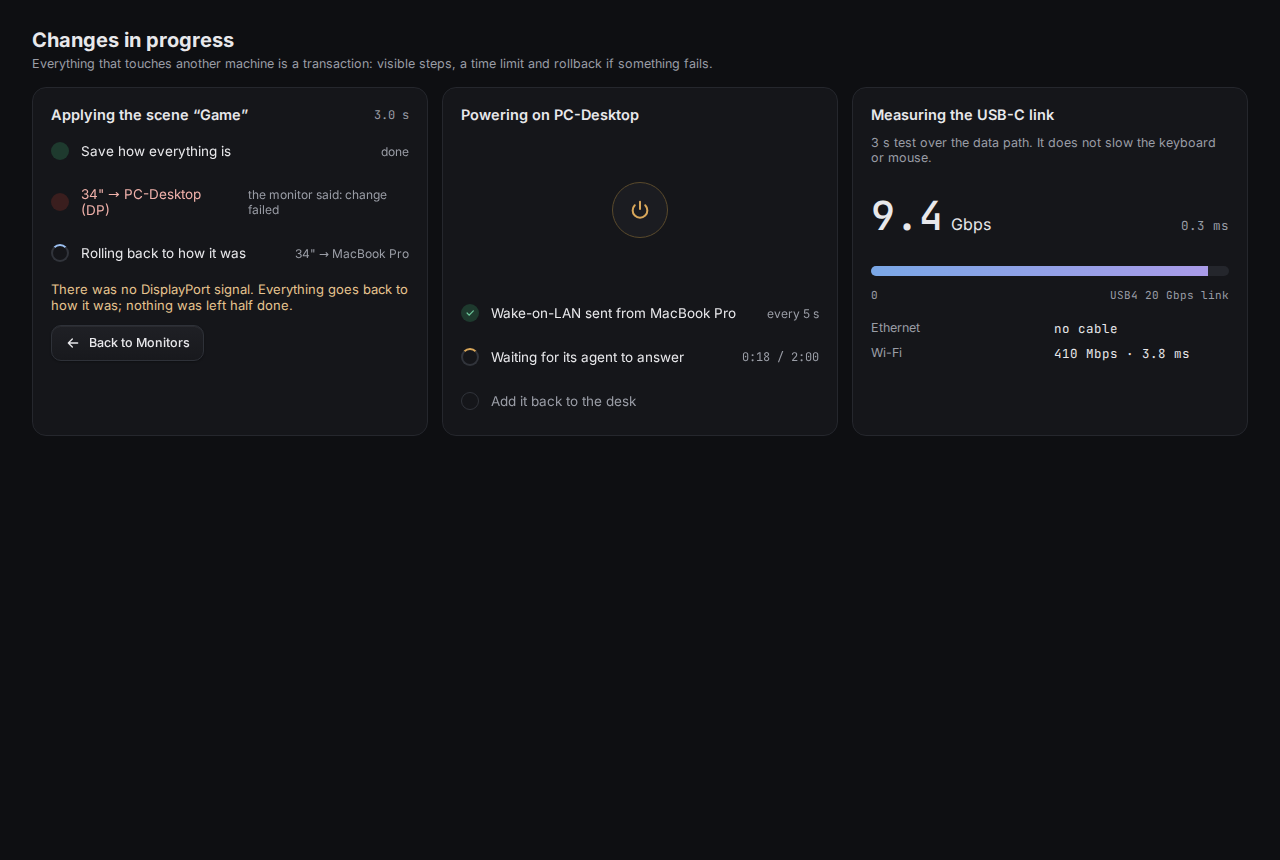
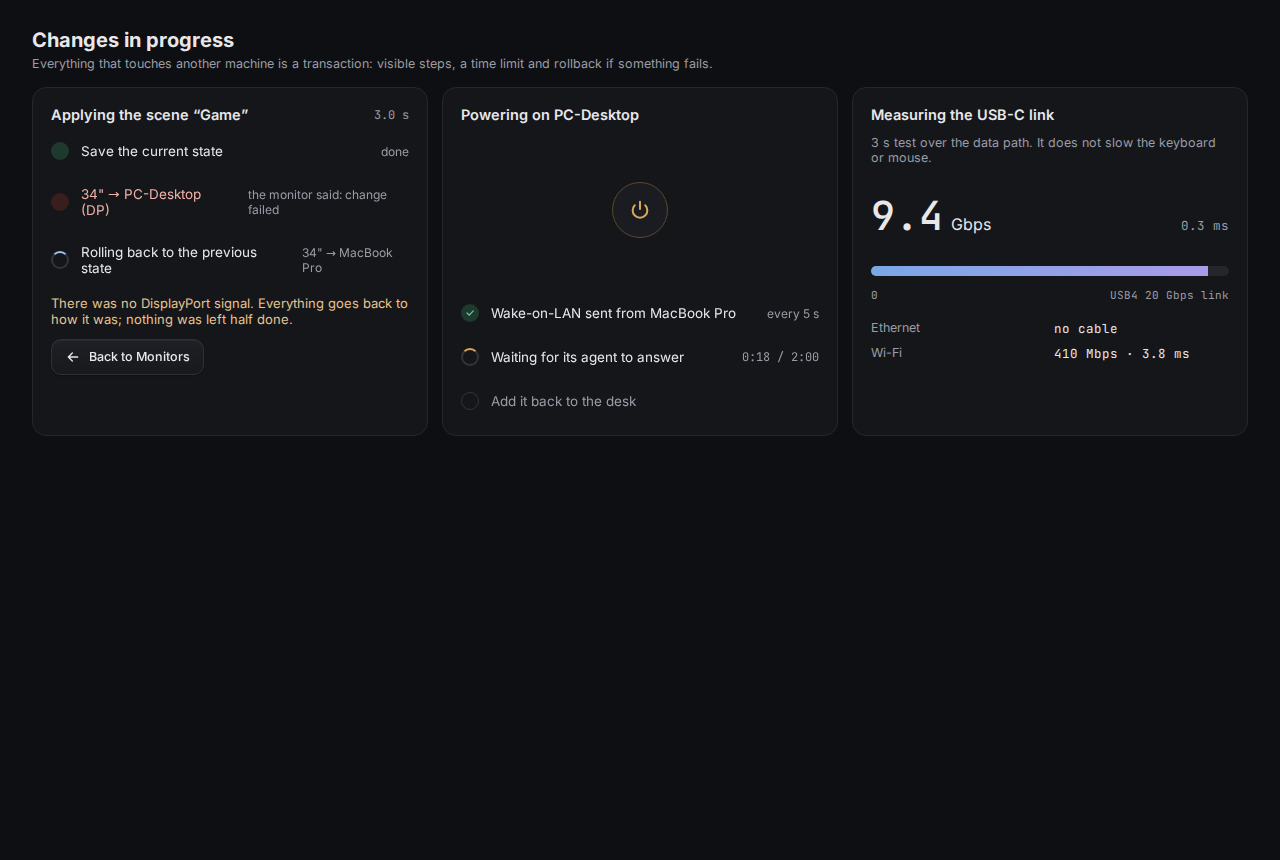
T-221: fix mistranslated UI strings (#162)
Fix UI strings that were mistranslated during the English migration.

Changed region(s): [[0.0312, 0.2721, 0.3125, 0.4233], [0.2188, 0.2721, 0.3125, 0.3023], [0.0938, 0.1512, 0.1875, 0.1814]]

diff --git a/mockups/v03/V3-Network.dc.html b/mockups/v03/V3-Network.dc.html
@@ -133,16 +133,16 @@ body{margin:0;background:#0e0f12}
 
     <section style="display:grid;grid-template-columns:repeat(3,minmax(0,1fr));gap:12px">
       <article class="card pc" style="animation-delay:.18s;border-color:#2c4a3c">
-        <div style="display:flex;align-items:center;gap:10px"><span class="pi" style="background:#16202e"><svg viewBox="0 0 24 24" fill="#7aa7e6" aria-hidden="true"><path d="M13 2 4 14h7l-1 8 9-12h-7z"></path></svg></span><div style="display:flex;flex-direction:column;gap:2px;min-width:0"><b style="font-weight:600">USB-C cable</b><span class="mono mut" style="font-size:11px">USB4 · 20 Gbps</span></div><span style="flex:1"></span><span class="st on"><span class="d"></span>Main</span></div>
-        <div class="met"><span class="mut">Latency</span><div class="bar"><span style="width:8%;background:#6cc59a"></span></div><span class="mono" style="text-align:right">0.3 ms</span><span class="mut">Band</span><div class="bar"><span style="width:94%;background:#7aa7e6"></span></div><span class="mono" style="text-align:right">9.4 Gbps</span></div>
+        <div style="display:flex;align-items:center;gap:10px"><span class="pi" style="background:#16202e"><svg viewBox="0 0 24 24" fill="#7aa7e6" aria-hidden="true"><path d="M13 2 4 14h7l-1 8 9-12h-7z"></path></svg></span><div style="display:flex;flex-direction:column;gap:2px;min-width:0"><b style="font-weight:600">USB-C cable</b><span class="mono mut" style="font-size:11px">USB4 · 20 Gbps</span></div><span style="flex:1"></span><span class="st on"><span class="d"></span>Primary</span></div>
+        <div class="met"><span class="mut">Latency</span><div class="bar"><span style="width:8%;background:#6cc59a"></span></div><span class="mono" style="text-align:right">0.3 ms</span><span class="mut">Bandwidth</span><div class="bar"><span style="width:94%;background:#7aa7e6"></span></div><span class="mono" style="text-align:right">9.4 Gbps</span></div>
       </article>
       <article class="card pc" style="animation-delay:.22s;border-style:dashed">
         <div style="display:flex;align-items:center;gap:10px"><span class="pi" style="background:#1b1c21"><svg viewBox="0 0 24 24" fill="#80838d" aria-hidden="true"><path d="M5 4h14v10h-3v3h-2v3h-4v-3H8v-3H5z"></path></svg></span><div style="display:flex;flex-direction:column;gap:2px;min-width:0"><b style="font-weight:600">Ethernet</b><span class="mono mut" style="font-size:11px">2.5 GbE</span></div><span style="flex:1"></span><span class="st off"><span class="d"></span>No cable</span></div>
-        <div class="met" style="opacity:.45"><span class="mut">Latency</span><div class="bar"></div><span class="mono" style="text-align:right">—</span><span class="mut">Band</span><div class="bar"></div><span class="mono" style="text-align:right">—</span></div>
+        <div class="met" style="opacity:.45"><span class="mut">Latency</span><div class="bar"></div><span class="mono" style="text-align:right">—</span><span class="mut">Bandwidth</span><div class="bar"></div><span class="mono" style="text-align:right">—</span></div>
       </article>
       <article class="card pc" style="animation-delay:.26s">
         <div style="display:flex;align-items:center;gap:10px"><span class="pi" style="background:#1a1712"><svg viewBox="0 0 24 24" fill="none" stroke="#d9a75a" stroke-width="2" stroke-linecap="round" aria-hidden="true"><path d="M2.5 9a14 14 0 0 1 19 0M5.5 12.5a9 9 0 0 1 13 0M9 16a4 4 0 0 1 6 0"></path><path d="M12 19.5h.01"></path></svg></span><div style="display:flex;flex-direction:column;gap:2px;min-width:0"><b style="font-weight:600">Wi-Fi</b><span class="mono mut" style="font-size:11px">Wi-Fi 7 · home</span></div><span style="flex:1"></span><span class="st bk"><span class="d"></span>Backup</span></div>
-        <div class="met"><span class="mut">Latency</span><div class="bar"><span style="width:40%;background:#d9a75a"></span></div><span class="mono" style="text-align:right">3.8 ms</span><span class="mut">Band</span><div class="bar"><span style="width:12%;background:#d9a75a"></span></div><span class="mono" style="text-align:right">410 Mbps</span></div>
+        <div class="met"><span class="mut">Latency</span><div class="bar"><span style="width:40%;background:#d9a75a"></span></div><span class="mono" style="text-align:right">3.8 ms</span><span class="mut">Bandwidth</span><div class="bar"><span style="width:12%;background:#d9a75a"></span></div><span class="mono" style="text-align:right">410 Mbps</span></div>
       </article>
     </section>
   </main>

diff --git a/apps/tandem-ui/src/screens/arrangement.test.ts b/apps/tandem-ui/src/screens/arrangement.test.ts
@@ -105,7 +105,7 @@ describe("Crossing test (F-CrossingTest)", () => {
     const src = new DemoSource(demoOptions("demo&still"));
     await open(src, "#/arrangement/crossing");
     src.cross({ from: "a", to: "b", edge: "right", at: 0, of: 0, ms: null });
-    expect(await screen.findByText("Crossed fine")).toBeInTheDocument();
+    expect(await screen.findByText("Crossed correctly")).toBeInTheDocument();
     expect(screen.getByText(/It entered PC-Desktop\./)).toBeInTheDocument();
     expect(screen.queryByText(/Latency/)).toBeNull();
   });
@@ -116,7 +116,7 @@ describe("Crossing test (F-CrossingTest)", () => {
     expect(screen.getByText("Move the mouse to the right of the MacBook")).toBeInTheDocument();
     expect(screen.getByText("waiting for the cursor")).toBeInTheDocument();
     src.cross({ from: "a", to: "b", edge: "right", at: 612, of: 1440, ms: 0.4 });
-    expect(await screen.findByText("Crossed fine")).toBeInTheDocument();
+    expect(await screen.findByText("Crossed correctly")).toBeInTheDocument();
     expect(screen.getByText(/It entered PC-Desktop at the right height \(y = 612 of 1440\)\. Crossing latency: 0\.4 ms\./)).toBeInTheDocument();
     expect(screen.getByText("the cursor arrived here")).toBeInTheDocument();
     await userEvent.click(screen.getByRole("button", { name: /Test again/ }));
@@ -295,7 +295,7 @@ describe("with the real agent", () => {
     expect(store.desk.layout.arrangement.aSide).toBe("right");
   });
 
-  it("the crossing test uses the crossing the agent reports: enabled button and \"Crossed fine\" through the right edge", async () => {
+  it("the crossing test uses the crossing the agent reports: enabled button and \"Crossed correctly\" through the right edge", async () => {
     let notice: ((n: Notice) => void) | undefined;
     const act = vi.fn(async (_a: Action) => ({ kind: "done" as const }));
     const withNotice = (): Bridge => {
@@ -317,6 +317,6 @@ describe("with the real agent", () => {
     // The arrangement says "A to the right of": the Mac leaves through its left edge.
     notice?.({ kind: "crossed", from: "a", to: "b", edge: "left" });
     notice?.({ kind: "cursor", sample: { machine: "b", screen: "Odyssey", x: 3439, y: 700 } });
-    expect(await screen.findByText("Crossed fine")).toBeInTheDocument();
+    expect(await screen.findByText("Crossed correctly")).toBeInTheDocument();
   });
 });

diff --git a/apps/tandem-ui/src/screens/network.test.ts b/apps/tandem-ui/src/screens/network.test.ts
@@ -55,7 +55,7 @@ describe("Network (V3-Network) in demo mode", () => {
     expect(screen.getByText("Keyboard and mouse")).toBeInTheDocument();
     expect(screen.getByText("0.4 ms")).toBeInTheDocument();
     expect(screen.getByText("p99 1.9 ms")).toBeInTheDocument();
-    const bw = screen.getByText("Bandwidth").closest<HTMLElement>(".card")!;
+    const bw = screen.getAllByText("Bandwidth").find((e) => e.classList.contains("lbl"))!.closest<HTMLElement>(".card")!;
     expect(within(bw).getByText("9.4 Gbps")).toBeInTheDocument();
     expect(within(bw).getByText("over USB-C")).toBeInTheDocument();
     expect(screen.getByText("Latency · 60 s")).toBeInTheDocument();
@@ -71,7 +71,7 @@ describe("Network (V3-Network) in demo mode", () => {
     expect(within(usb!).getByText("USB-C cable")).toBeInTheDocument();
     expect(within(usb!).getByText("USB4 · 20 Gbps")).toBeInTheDocument();
     expect(usb!.querySelector(".st")).toHaveClass("primary");
-    expect(within(usb!).getByText("Main")).toBeInTheDocument();
+    expect(within(usb!).getByText("Primary")).toBeInTheDocument();
     expect(within(usb!).getByText("0.3 ms")).toBeInTheDocument();
     expect(within(usb!).getByText("9.4 Gbps")).toBeInTheDocument();
     expect(within(usb!).getByRole("meter", { name: "USB-C bandwidth" })).toHaveAttribute("aria-valuenow", "94");
@@ -221,10 +221,10 @@ describe("Network with the real agent (IPC)", () => {
     expect(screen.getAllByText("No cable")).toHaveLength(2);
     expect(screen.getAllByText("No signal")).toHaveLength(1);
     await flush(() => handlers.network?.(wire({ switches: [] })));
-    expect(screen.getByText("Main")).toBeInTheDocument();
+    expect(screen.getByText("Primary")).toBeInTheDocument();
     expect(screen.getByText("0.4 ms")).toBeInTheDocument();
     expect(screen.getByText("p99 1.9 ms")).toBeInTheDocument();
-    expect(within(screen.getByText("Bandwidth").closest<HTMLElement>(".card")!).getByText("9.4 Gbps")).toBeInTheDocument();
+    expect(within(screen.getAllByText("Bandwidth").find((e) => e.classList.contains("lbl"))!.closest<HTMLElement>(".card")!).getByText("9.4 Gbps")).toBeInTheDocument();
     expect(screen.getByText("Backup")).toBeInTheDocument();
     // Without link detail, the line is not invented.
     expect(screen.queryByText(/USB4 ·/)).toBeNull();

diff --git a/mockups/v03/F-Transactions.dc.html b/mockups/v03/F-Transactions.dc.html
@@ -96,13 +96,13 @@ class Component extends DCLogic {
     const check = '';
     let steps, msg, msgStyle, elapsed;
     if (s === 'run') {
-      steps = [{ t: 'Save how everything is', ...ok('done') }, { t: '34" → PC-Desktop (DP)', icon: 'i run', d: 'waiting for the monitor' }, { t: 'Mouse: take the 34" off the MacBook', icon: 'i todo', d: '' }];
+      steps = [{ t: 'Save the current state', ...ok('done') }, { t: '34" → PC-Desktop (DP)', icon: 'i run', d: 'waiting for the monitor' }, { t: 'Mouse: take the 34" off the MacBook', icon: 'i todo', d: '' }];
       msg = 'The monitor confirms each change; nothing is guessed.'; msgStyle = 'color:#9a9da6'; elapsed = '1.2 s';
     } else if (s === 'ok') {
-      steps = [{ t: 'Save how everything is', ...ok('done') }, { t: '34" → PC-Desktop (DP)', ...ok('confirmed · 1.8 s') },{ t: 'Mouse: take the 34" off the MacBook', ...ok('done') }];
+      steps = [{ t: 'Save the current state', ...ok('done') }, { t: '34" → PC-Desktop (DP)', ...ok('confirmed · 1.8 s') },{ t: 'Mouse: take the 34" off the MacBook', ...ok('done') }];
       msg = 'Scene “Game” active.'; msgStyle = 'color:#9fd8b9'; elapsed = '2.3 s';
     } else {
-      steps = [{ t: 'Save how everything is', ...ok('done') }, { t: '34" → PC-Desktop (DP)', icon: 'i bad', d: 'the monitor said: change failed', rowStyle: 'color:#f0b1aa' }, { t: 'Rolling back to how it was', icon: 'i back', d: '34" → MacBook Pro' }];
+      steps = [{ t: 'Save the current state', ...ok('done') }, { t: '34" → PC-Desktop (DP)', icon: 'i bad', d: 'the monitor said: change failed', rowStyle: 'color:#f0b1aa' }, { t: 'Rolling back to the previous state', icon: 'i back', d: '34" → MacBook Pro' }];
       msg = 'There was no DisplayPort signal. Everything goes back to how it was; nothing was left half done.'; msgStyle = 'color:#e6c48f'; elapsed = '3.0 s';
     }
     return {

diff --git a/mockups/v03/F-Setup5.dc.html b/mockups/v03/F-Setup5.dc.html
@@ -82,7 +82,7 @@ body{margin:0;background:#0e0f12}
     </div>
     <div style="min-height:64px">
       <sc-if value="{{idle}}" hint-placeholder-val="{{ false }}">
-        <div style="display:flex;gap:10px;align-items:center"><button type="button" class="btn pri" onClick="{{start}}"><svg class="cu" viewBox="0 0 24 24" fill="none" stroke="currentColor" stroke-width="2" stroke-linejoin="round" aria-hidden="true"><path d="M5 3l14 8-6 2-2 6z"></path></svg>Test crossing</button><span class="mut" style="font-size:13px">You need the mouse at hand.</span></div>
+        <div style="display:flex;gap:10px;align-items:center"><button type="button" class="btn pri" onClick="{{start}}"><svg class="cu" viewBox="0 0 24 24" fill="none" stroke="currentColor" stroke-width="2" stroke-linejoin="round" aria-hidden="true"><path d="M5 3l14 8-6 2-2 6z"></path></svg>Test crossing</button><span class="mut" style="font-size:13px">Keep the mouse within reach.</span></div>
       </sc-if>
       <sc-if value="{{waiting}}" hint-placeholder-val="{{ true }}">
         <div style="display:flex;gap:10px;align-items:center;flex-wrap:wrap;animation:pop .3s ease-out"><span style="font-size:13.5px">Waiting for the crossing at the MacBook’s right edge…</span><span class="mono mut" style="font-size:12px">20 s</span><span style="flex:1"></span><button type="button" class="btn sm sim" onClick="{{pass}}"><svg viewBox="0 0 24 24" fill="none" stroke="#6cc59a" stroke-width="2.4" stroke-linecap="round" aria-hidden="true"><path d="m5 12 5 5L20 7"></path></svg>Simulate crossing</button><button type="button" class="btn sm sim" onClick="{{fail}}"><svg viewBox="0 0 24 24" fill="none" stroke="#d9a75a" stroke-width="2.4" stroke-linecap="round" aria-hidden="true"><path d="M6 6l12 12M18 6 6 18"></path></svg>Simulate another edge</button></div>

diff --git a/apps/tandem-ui/src/lib/txn.test.ts b/apps/tandem-ui/src/lib/txn.test.ts
@@ -25,13 +25,13 @@ function play(events: TxnView[], at = 1000): Run {
 const started: TxnView = { type: "started", txn: 7, steps };
 
 describe("transaction progress (F-Transactions)", () => {
-  it("starts with \"Save how everything is\" ready and the steps pending", () => {
+  it("starts with \"Save the current state\" ready and the steps pending", () => {
     const run = play([started]);
     expect(running(run)).toBe(true);
     const v = viewOf(run, names, 1000);
     expect(v.title).toBe("Applying the scene “Game”");
     expect(v.rows.map((r) => [r.icon, r.text])).toEqual([
-      ["done", "Save how everything is"],
+      ["done", "Save the current state"],
       ["todo", '34" → PC-Desktop (DP)'],
       ["todo", 'Mouse: take the 34" off MacBook Pro'],
     ]);
@@ -63,7 +63,7 @@ describe("transaction progress (F-Transactions)", () => {
     const v = viewOf(run, names, 5000);
     expect(v.rows.map((r) => r.icon)).toEqual(["done", "bad", "back"]);
     expect(v.rows[1]).toMatchObject({ tone: "bad", detail: "the monitor said: change failed" });
-    expect(v.rows[2]).toMatchObject({ text: "Rolling back to how it was", detail: '34" → MacBook Pro' });
+    expect(v.rows[2]).toMatchObject({ text: "Rolling back to the previous state", detail: '34" → MacBook Pro' });
     expect(v.message).toEqual({ text: "There was no DisplayPort signal. Everything goes back to how it was; nothing was left half done.", tone: "warn" });
     const over = play([started, { type: "step_started", txn: 7, index: 0 }, { type: "step_failed", txn: 7, index: 0, error: "the monitor showed no image on DisplayPort" }, { type: "failed", txn: 7, state: { on: { a: true, b: true } } }]);
     expect(viewOf(over, names, 5000)).toMatchObject({ outcome: "failed" });

diff --git a/mockups/v03/F-Settings.dc.html b/mockups/v03/F-Settings.dc.html
@@ -90,7 +90,7 @@ a{color:#9cc0f0}
         <div class="pane">
           <div class="row" style="border-top:0"><span style="flex:1;display:flex;flex-direction:column;gap:3px">Tandem 0.3.0<span class="mut" style="font-size:12.5px">All machines of the desk on the same version.</span></span><button type="button" class="btn" onClick="{{check}}"><svg class="rf" viewBox="0 0 24 24" fill="none" stroke="currentColor" stroke-width="2" stroke-linecap="round" aria-hidden="true"><path d="M20 11a8 8 0 0 0-14.9-3M4 13a8 8 0 0 0 14.9 3"></path><path d="M20 4v4h-4M4 20v-4h4"></path></svg>{{checkLabel}}</button></div>
           <sc-if value="{{found}}" hint-placeholder-val="{{ false }}"><div class="row" style="animation:fd .3s"><span style="flex:1;display:flex;flex-direction:column;gap:3px">A new version is available: 0.3.1<span class="mut" style="font-size:12.5px">It installs on every machine, one at a time, without cutting the keyboard.</span></span><button type="button" class="btn pri"><svg viewBox="0 0 24 24" fill="none" stroke="currentColor" stroke-width="2" stroke-linecap="round" aria-hidden="true"><path d="M12 4v11M7 10l5 5 5-5M5 20h14"></path></svg>Update all</button></div></sc-if>
-          <div class="row"><span style="flex:1">Update only</span><button type="button" class="sw" role="switch" aria-checked="true" aria-label="Update only"></button></div>
+          <div class="row"><span style="flex:1">Update automatically</span><button type="button" class="sw" role="switch" aria-checked="true" aria-label="Update automatically"></button></div>
           <div class="row"><span style="flex:1">Source</span><span class="mono mut" style="font-size:12.5px">GitHub Releases · unsigned</span></div>
         </div>
       </sc-if>

diff --git a/mockups/v03/F-CrossingTest.dc.html b/mockups/v03/F-CrossingTest.dc.html
@@ -69,7 +69,7 @@ a{color:#9cc0f0}
     </sc-if>
     <sc-if value="{{passed}}" hint-placeholder-val="{{ false }}">
       <svg width="28" height="28" viewBox="0 0 24 24" fill="none" stroke="#6cc59a" stroke-width="2.2" aria-hidden="true"><circle cx="12" cy="12" r="10"></circle><path d="m7.5 12.5 3 3 6-6.5"></path></svg>
-      <div style="display:flex;flex-direction:column;gap:3px"><b style="font-weight:600">Crossed fine</b><span class="mut" style="font-size:12.5px">It entered PC-Desktop at the right height (y = 612 of 1440). Crossing latency: 0.4 ms.</span></div>
+      <div style="display:flex;flex-direction:column;gap:3px"><b style="font-weight:600">Crossed correctly</b><span class="mut" style="font-size:12.5px">It entered PC-Desktop at the right height (y = 612 of 1440). Crossing latency: 0.4 ms.</span></div>
       <span style="flex:1"></span><button type="button" class="btn" onClick="{{again}}"><svg class="rf" viewBox="0 0 24 24" fill="none" stroke="currentColor" stroke-width="2" stroke-linecap="round" aria-hidden="true"><path d="M20 11a8 8 0 0 0-14.9-3M4 13a8 8 0 0 0 14.9 3"></path><path d="M20 4v4h-4M4 20v-4h4"></path></svg>Test again</button><a class="btn pri" href="V3-Arrangement.dc.html"><svg viewBox="0 0 24 24" fill="none" stroke="currentColor" stroke-width="2.4" stroke-linecap="round" aria-hidden="true"><path d="m5 12 5 5L20 7"></path></svg>Done</a>
     </sc-if>
     <sc-if value="{{failed}}" hint-placeholder-val="{{ false }}">

diff --git a/apps/tandem-ui/src/lib/onboarding.ts b/apps/tandem-ui/src/lib/onboarding.ts
@@ -179,7 +179,7 @@ function pairStep(o: Onboarding, snap: Snapshot): StepView {
       v.verified = ping !== null;
       v.blocker = ping ? null : "test the link";
     } else {
-      v.checks.push({ state: "fail", label: "It does not see it right now", detail: "power it on and wait for it to appear; USB-C, Ethernet or Wi-Fi" });
+      v.checks.push({ state: "fail", label: "It cannot see it right now", detail: "power it on and wait for it to appear; USB-C, Ethernet or Wi-Fi" });
       v.blocker = "the other machine does not respond";
     }
     return v;
@@ -197,8 +197,8 @@ function pairStep(o: Onboarding, snap: Snapshot): StepView {
     case "comparing":
       v.checks.push({ state: "wait", label: `Found ${pairing.peer}`, detail: pairing.confirmed ? "waiting for the other one to confirm" : "is it the same code on both screens?" });
       v.code = pairing.code;
-      if (!pairing.confirmed) v.buttons.push({ id: "pair:confirm", label: "It is the same", kind: "primary", enabled: true });
-      v.buttons.push({ id: "pair:cancel", label: "It does not match", kind: "danger", enabled: true });
+      if (!pairing.confirmed) v.buttons.push({ id: "pair:confirm", label: "They match", kind: "primary", enabled: true });
+      v.buttons.push({ id: "pair:cancel", label: "They do not match", kind: "danger", enabled: true });
       break;
     case "done":
       v.checks.push({ state: "ok", label: `Paired with ${pairing.peer}` });

diff --git a/apps/tandem-ui/src/lib/txn.ts b/apps/tandem-ui/src/lib/txn.ts
@@ -140,7 +140,7 @@ export function viewOf(run: Run, names: Names, now: number): RunView {
   const { progress: p } = run;
   const outcome = p.outcome.kind === "committed" ? "ok" : p.outcome.kind === "failed" ? "failed" : "running";
   const failedAt = p.status.findIndex((s) => s === "failed");
-  const rows: Row[] = [{ key: "save", icon: "done", text: "Save how everything is", detail: "done", tone: "" }];
+  const rows: Row[] = [{ key: "save", icon: "done", text: "Save the current state", detail: "done", tone: "" }];
   p.steps.forEach((s, i) => {
     // What did not get to start before a failure is not shown: the rollback replaces it.
     if (failedAt >= 0 && i > failedAt) return;
@@ -160,7 +160,7 @@ export function viewOf(run: Run, names: Names, now: number): RunView {
     const bad = p.steps[failedAt];
     const was = bad && isMonitorStep(bad) ? names.monitors.find((x) => x.id === (bad as { monitor: string }).monitor) : null;
     const back = was?.shows ? `${shortMonitor(was.name)} → ${names.machine(was.shows)}` : "";
-    rows.push({ key: "back", icon: outcome === "running" ? "back" : "done", text: "Rolling back to how it was", detail: back, tone: "" });
+    rows.push({ key: "back", icon: outcome === "running" ? "back" : "done", text: "Rolling back to the previous state", detail: back, tone: "" });
   }
 
   let message: Message;

diff --git a/apps/tandem-ui/src/screens/updates.test.ts b/apps/tandem-ui/src/screens/updates.test.ts
@@ -19,11 +19,11 @@ async function openUpdates() {
 }
 
 describe("Settings → Updates (F-Settings, T-122)", () => {
-  it("shows the version of the two machines, the source and \"Update only\" on", async () => {
+  it("shows the version of the two machines, the source and \"Update automatically\" on", async () => {
     await openUpdates();
     expect(screen.getByText("All machines of the desk on the same version.")).toBeInTheDocument();
     expect(screen.getByText("GitHub Releases · unsigned")).toBeInTheDocument();
-    expect(screen.getByRole("switch", { name: "Update only" })).toHaveAttribute("aria-checked", "true");
+    expect(screen.getByRole("switch", { name: "Update automatically" })).toHaveAttribute("aria-checked", "true");
     expect(screen.queryByRole("button", { name: /Update all/ })).toBeNull();
   });
 
@@ -40,7 +40,7 @@ describe("Settings → Updates (F-Settings, T-122)", () => {
 
   it("the switch is saved", async () => {
     const store = await openUpdates();
-    const sw = screen.getByRole("switch", { name: "Update only" });
+    const sw = screen.getByRole("switch", { name: "Update automatically" });
     await userEvent.click(sw);
     expect(sw).toHaveAttribute("aria-checked", "false");
     expect((await store.updates(() => {})).auto).toBe(false);

diff --git a/apps/tandem-ui/src/screens/monitors.test.ts b/apps/tandem-ui/src/screens/monitors.test.ts
@@ -76,7 +76,7 @@ describe("Monitors (V3-Monitors) in demo mode", () => {
     await userEvent.click(within(other).getByRole("button", { name: "Apply" }));
     await waitFor(() => expect(store.route.screen).toBe("progress"));
     expect(await screen.findByRole("heading", { name: "Changes in progress" })).toBeInTheDocument();
-    expect(screen.getByText("Save how everything is")).toBeInTheDocument();
+    expect(screen.getByText("Save the current state")).toBeInTheDocument();
     expect(screen.getByRole("link", { name: "Back to Monitors" })).toHaveAttribute("href", "#/monitors");
   });
 });
@@ -131,7 +131,7 @@ describe("Progress (F-Transactions) in demo mode", () => {
 
   it("if the monitor gives no image the rollback is seen and nothing is left half-done", async () => {
     await open("#/progress", "demo&still&txn=fail");
-    expect(await screen.findByText("Rolling back to how it was")).toBeInTheDocument();
+    expect(await screen.findByText("Rolling back to the previous state")).toBeInTheDocument();
     expect(screen.getByText("the monitor said: change failed")).toBeInTheDocument();
     expect(screen.getByText(/nothing was left half done/)).toBeInTheDocument();
   });
